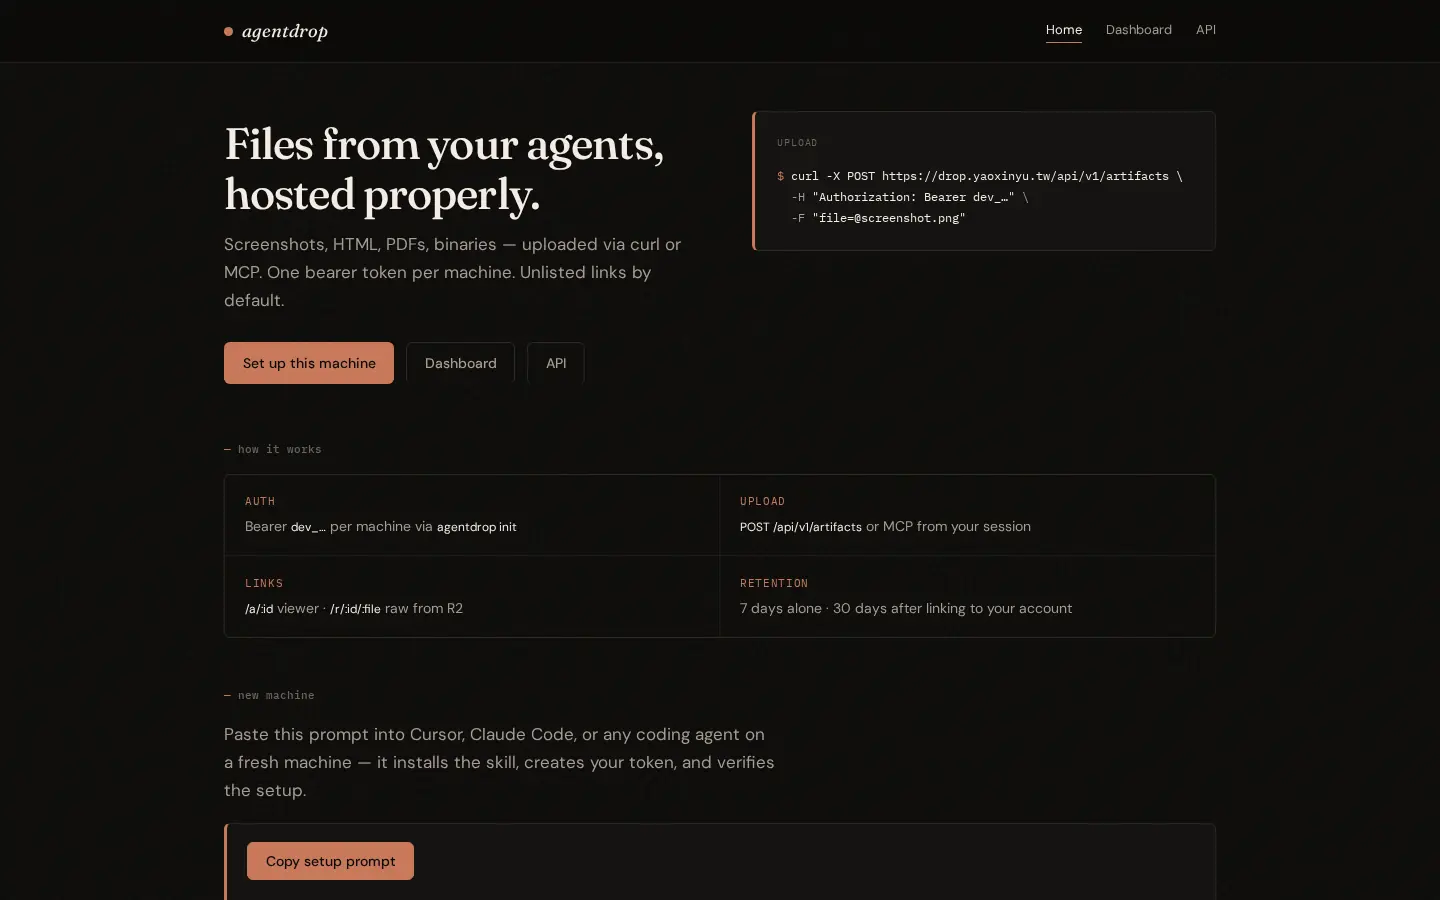
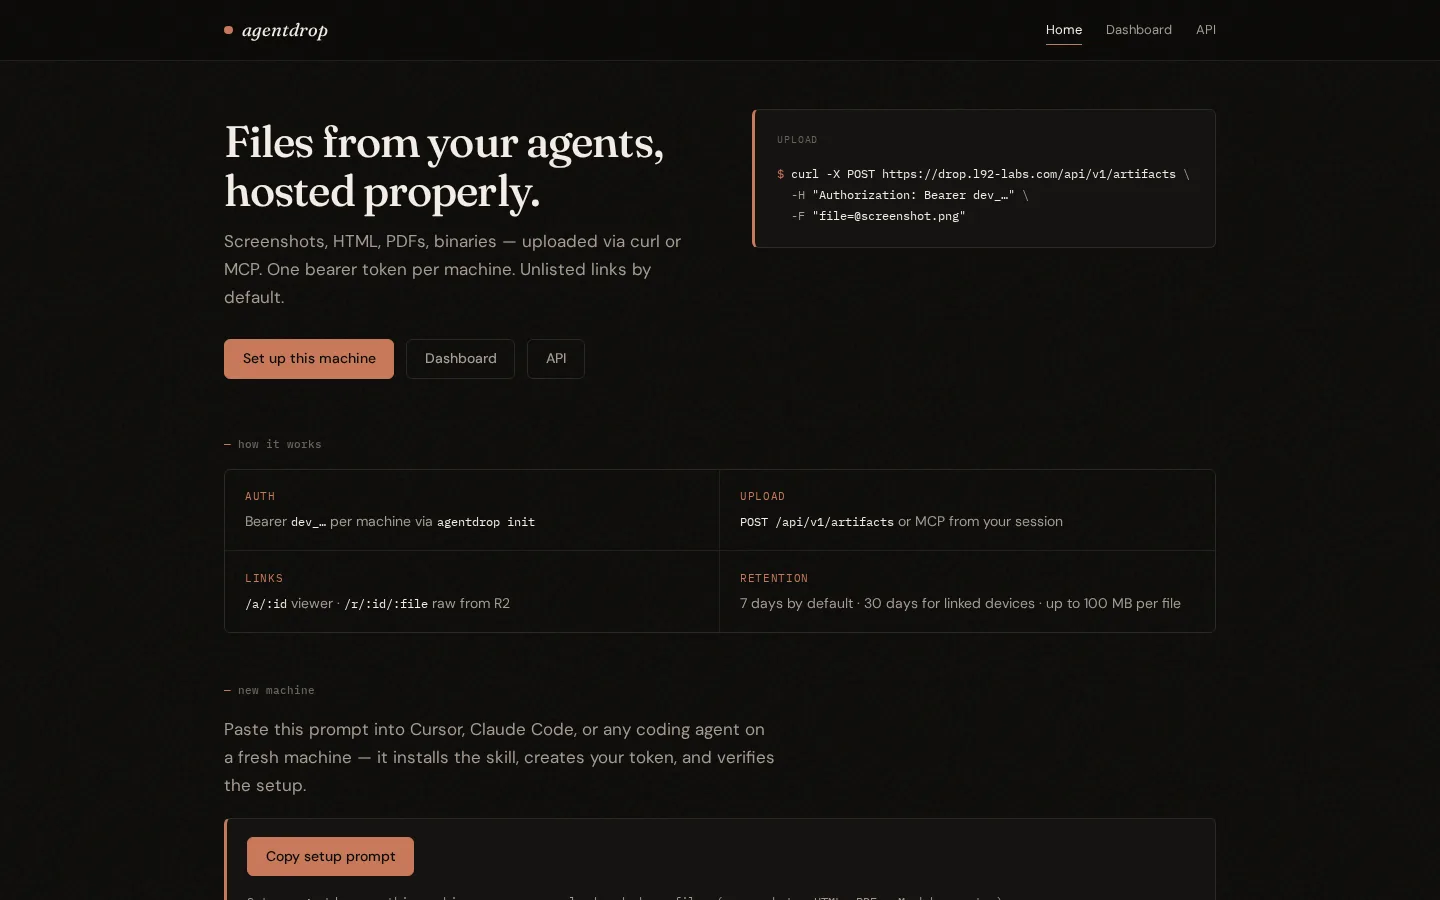
Agentdrop card: open source + self-host, fresh screenshot (#3)
The old screenshot showed a personal domain (drop.yaoxinyu.tw); replace it
with the live drop.l92-labs.com home page. Card copy now says Agentdrop is
open source and one-click self-hostable; repo link points at the public
L92-Labs/agentdrop.

diff --git a/apps/web/app/page.tsx b/apps/web/app/page.tsx
@@ -10,7 +10,7 @@ const projects: Project[] = [
   {
     name: "Agentdrop",
     tagline:
-      "Artifact hosting for AI agents — images, video, HTML, PDF, and Markdown with shareable links.",
+      "Open-source artifact hosting for AI agents — images, video, HTML, PDF, and Markdown with shareable links. Self-host it on Cloudflare in one click.",
     href: "https://drop.l92-labs.com",
     repo: "https://github.com/L92-Labs/agentdrop",
     screenshot: "/screenshots/agentdrop-home.webp",
